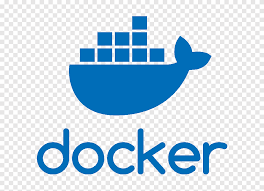
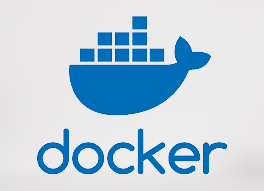
alterei o fundo das imagens

diff --git a/index.html b/index.html
@@ -6,11 +6,7 @@
     <meta http-equiv="X-UA-Compatible" content="IE=edge">
     <meta name="viewport" content="width=device-width, initial-scale=1.0">
     <link href="./src/css/style.css" rel="stylesheet">
-<<<<<<< HEAD
-    <link href="./src/css/normilize" rel="stylesheet">
-=======
     <link href="./src/css/normalize.css" rel="stylesheet">
->>>>>>> f8f155c6bcbcdd2058738207f2dcf391faafc57a
     <link rel="preconnect" href="https://fonts.gstatic.com">
     <link href=" https://fonts.googleapis.com/css2?family=Open+Sans&family=Pacifico&family=Roboto+Slab&display=swap "
         rel="stylesheet">
@@ -50,11 +46,11 @@
     <section id="portfolio" class="display-flex-align-items-flex-direction">
         <p>O que sabemos</p>
 
-        <img src="./img/css.jpeg" alt="foto css" />
+        <img src="./img/css.png" alt="foto css" />
         <img src="./img/docker.png" alt="foto docker">
-        <img src="./img/html.jpeg" alt="foto html">
+        <img src="./img/html.png" alt="foto html">
         <img src="./img/javaScript.png" alt="foto JS">
-        <img src="./img/linux.jpeg" alt="foto linux">
+        <img src="./img/linux.png" alt="foto linux">
     </section>
 
     <section id="contato" class="display-flex-align-items-flex-direction">

diff --git a/src/css/style.css b/src/css/style.css
@@ -1,10 +1,9 @@
-<<<<<<< HEAD
-=======
 /*
 GERAL
 */
 body{
     font-family: "Open Sans", Helvetica, Arial, sans-serif;
+    background-color:#d8d8d8;
     color: #4d4d4d;
 }
 h1,h2,h3 {
@@ -91,8 +90,12 @@ header p {
 
 #sobre{
     /* Talvez uma foto de fundo. */
+     background-image: url('../../img/castelo-floresta.jpeg');
+     background-size: cover;
+     background-repeat: no-repeat;
     text-align: center;
     padding: 20px;
+    color: #f1f1f1;
 }
 
 #servicos{
@@ -106,4 +109,3 @@ header p {
 footer{
    text-align: center;
 }
->>>>>>> f8f155c6bcbcdd2058738207f2dcf391faafc57a
